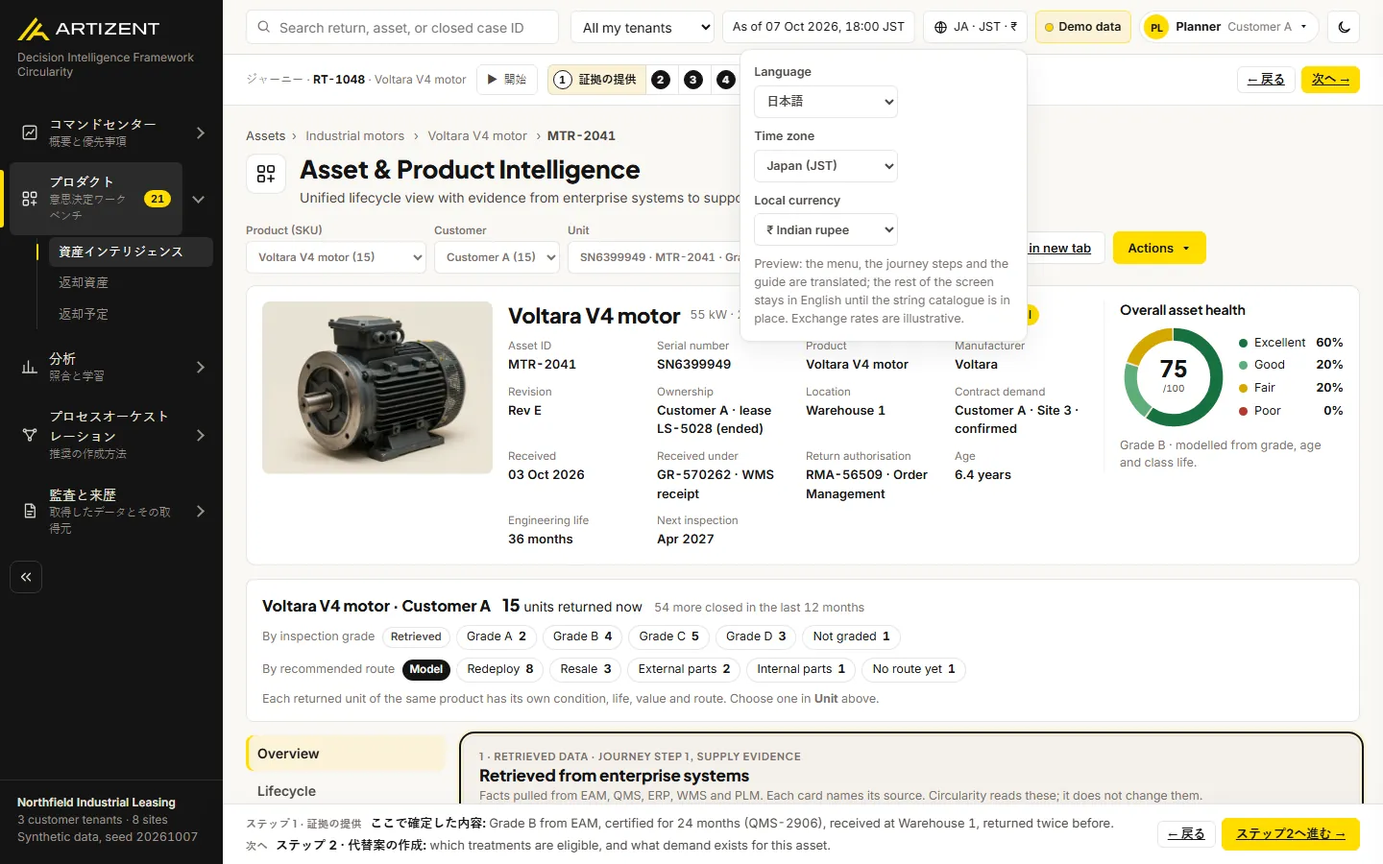
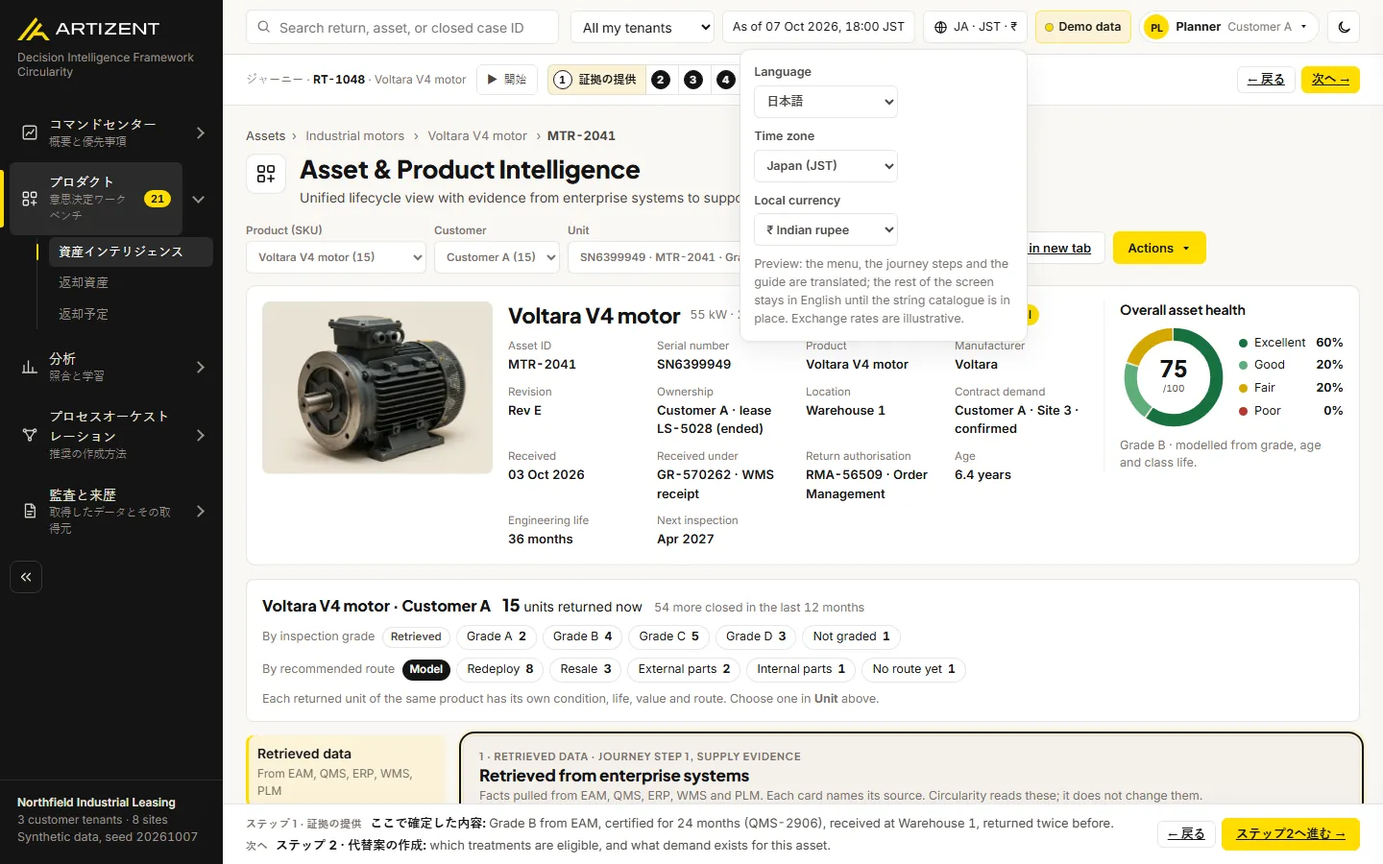
Asset Intelligence: Retrieved data and Predictions as two separate pages
Product Owner feedback (19 Oct): the left menu on Asset Intelligence
should hold only Retrieved data and Predictions, each its own page,
not one scroll with both.

- Left menu: two entries (AS_PAGES), linked to ?zone=known (journey
  step 1) and ?zone=predicted (steps 2-3). Each page renders only its
  own section (asOverview, asPageOf).
- Detail views (Lifecycle, Condition, Product & Components, Economic
  Analysis, Eligibility & Compliance, Data & Evidence, Related Assets)
  open from each card's View details under their page (AS_PARENT),
  with a crumb back. View details now also works on ?zone= links,
  which previously reset the tab on re-render.
- Compare similar assets moved to the Actions menu.
- The step-1 "Not evaluated yet" collapse is removed: predictions are
  on their own page.
- CHANGES Update 11, README, plan (J4 answered) and demo script updated;
  asset screenshots retaken.

Tests: role 208, guided flow 110, demo 91, iteration two 50,
iteration three 55, 390 px 27; no console errors.

Changed region(s): [[0.1562, 0.8711, 0.3438, 0.9333]]

diff --git a/index.html b/index.html
@@ -89,6 +89,7 @@ tr.dpfocus>td{background:var(--yellow-soft)}
 .asbody2{display:grid;grid-template-columns:208px minmax(0,1fr);gap:18px;align-items:start}
 .asside{position:sticky;top:72px;display:grid;gap:8px;align-content:start}
 .asside .asvt{display:grid;gap:2px;border:0;margin:0;overflow:visible}
+.asside .asvt button{display:grid;gap:2px}.asside .asvt button .note{font-weight:400;font-size:12px}.ascr2{margin:0 0 12px}
 .asside .asvt button,.asvc{text-align:left;border:0;border-radius:8px;padding:8px 12px;background:none;font-weight:600;color:var(--ink2);white-space:normal;border-bottom:0}
 .asside .asvt button[aria-selected=true]{background:var(--yellow-soft);color:var(--ink);box-shadow:inset 3px 0 0 var(--yellow)}
 .asside .asvt button:hover,.asvc:hover{background:var(--panel2);color:var(--ink)}
@@ -2881,13 +2882,17 @@ function assetHead(c,h){
   return `<nav class="crumbs ascr" aria-label="Breadcrumb"><a href="#/product/received" data-act="go" data-arg="product/received">Assets</a> <span>›</span> <span>${esc(CLASSES[c.cls].plural)}</span> <span>›</span> <span>${esc(asModel(c))}</span> <span>›</span> <b>${c.assetId}</b></nav>
   <div class="phead asph2"><div class="row" style="gap:14px;flex-wrap:nowrap;align-items:flex-start"><span class="asico">${ICON.product}</span><div><h1>Asset &amp; Product Intelligence</h1><p>Unified lifecycle view with evidence from enterprise systems to support circularity decisions.</p></div></div>
    <div class="row asact">${assetSelect(c)}<a class="btn" href="${link}" target="_blank" rel="noopener">Open in new tab</a>
-    <details class="asmenu"><summary class="btn pri">Actions <span aria-hidden="true">▾</span></summary><div class="asmenu-list" role="menu"><button role="menuitem" data-act="go" data-arg="product/${c.id}">Open decision analysis</button><button role="menuitem" data-act="snapshot" data-arg="${c.id}">Evidence snapshot</button><button role="menuitem" data-act="asCopy">Copy link</button><button role="menuitem" data-act="asPrint">Print or save as PDF</button></div></details></div></div>
+    <details class="asmenu"><summary class="btn pri">Actions <span aria-hidden="true">▾</span></summary><div class="asmenu-list" role="menu"><button role="menuitem" data-act="go" data-arg="product/${c.id}">Open decision analysis</button><button role="menuitem" data-act="snapshot" data-arg="${c.id}">Evidence snapshot</button><button role="menuitem" data-act="asCopy">Copy link</button><button role="menuitem" data-act="asCompare">Compare similar assets</button><button role="menuitem" data-act="asPrint">Print or save as PDF</button></div></details></div></div>
   <section class="aship"><div class="asphoto">${asPhoto(c)}</div>
    <div class="asmain"><div class="asttl"><h2>${esc(asTitle(c))}</h2><span class="note">${esc(Object.values(c.spec||{}).slice(0,3).join(' · '))}</span><span class="chip line">${esc(CLASSES[c.cls].label)}</span>${stageChip(c)}</div>
     <dl class="asfacts">${assetFacts(c).map(f=>`<div><dt>${f[0]}</dt><dd>${esc(f[1])}</dd></div>`).join('')}</dl></div>
    <div class="ashealth"><h3>Overall asset health</h3>${asRing(h)}<div class="note" style="margin-top:6px">${h.est?'Estimated: no inspection grade yet.':'Grade '+c.grade+' · modelled from grade, age and class life.'}</div></div></section>`}
-function assetTabs(c){const rel=assetRelated(c);return `<nav class="asside" aria-label="Asset sections"><div class="tabs asvt" role="tablist" aria-label="Asset sections" aria-orientation="vertical">${AS_TABS.filter(t=>asTabOK(t[0])).map(t=>`<button role="tab" aria-selected="${S.at.tab===t[0]}" data-act="asTab" data-arg="${t[0]}">${t[1]}${t[0]==='related'?' ('+rel.length+')':''}</button>`).join('')}</div>
-   <button class="asvc" data-act="asCompare">Compare similar assets</button><a class="btn pri asev" href="#/product/${c.id}" data-act="go" data-arg="product/${c.id}">Evaluate treatments →</a></nav>`}
+/* the asset page has two pages: what the enterprise systems supplied, and what Circularity predicts; detail views sit under one of them */
+const AS_PAGES=[['known','Retrieved data','From EAM, QMS, ERP, WMS, PLM'],['pred','Predictions','Computed by Circularity']];
+const AS_PARENT={known:'known',pred:'pred',overview:'known',lifecycle:'known',condition:'known',product:'known',data:'known',related:'known',economic:'pred',eligibility:'pred'};
+const asPageOf=()=>AS_PARENT[S.at.tab]||'known';
+function assetTabs(c){const cur=asPageOf();return `<nav class="asside" aria-label="Asset pages"><div class="tabs asvt" role="tablist" aria-label="Asset pages" aria-orientation="vertical">${AS_PAGES.map(p=>`<button role="tab" aria-selected="${cur===p[0]}" data-act="asZone" data-arg="${p[0]}" id="asp-${p[0]}"><span class="aspt">${p[1]}</span><span class="note">${p[2]}</span></button>`).join('')}</div></nav>`}
+ACT.asZone=z=>{const c=CASE_BY_ID[S.lastAsset];if(!c)return;S.at.tab=z==='pred'?'pred':'known';go('product/asset/'+c.id+'?zone='+(z==='pred'?'predicted':'known'))};
 function assetRelated(c){return myCases().filter(x=>x.id!==c.id&&x.cls===c.cls).sort((a,b)=>(b.owner===c.owner)-(a.owner===c.owner)||(a.location===c.location?-1:1)-(b.location===c.location?-1:1)||(a.id<b.id?-1:1)).slice(0,3)}
 
 /* ---- shared panel + timeline + condition ---- */
@@ -3020,9 +3025,6 @@ function asDemand(c){const d=c.demand||{},M=caseDemand(c),R=caseRul(c),rows=[],r
   if(d.lease)rows.push(row('Re-lease opportunity',d.lease,'Forecast','warn','Opportunity in CRM and lease management, where a contract is likely to be extended'));
   if(d.parts)rows.push(row('Internal parts demand','Open requests','Forecast','warn','Parts requests from repair work orders'));
   return rows.length?rows.join('')+'<p class="note" style="margin:6px 0 0">Matched by Circularity from orders, contracts and opportunities in ERP and CRM. The routes that use this demand are priced in step 3.</p>':'<div class="empty"><b>No contract demand matched</b>Only external market routes apply.</div>'}
-/* entered from step 1: the predicted side waits (collapsed, not hidden) */
-const asCollapsed=(c,Rt)=>`<div class="aszcol" id="aszCol"><b>Not evaluated yet</b><p class="note">Steps 2–4 add eligible treatments, life and value. This side fills in as the journey moves on.</p><div class="row"><a class="btn pri sm" href="#/${JG[2].h(c.id)}">Continue to step 2 →</a><button class="btn sm" data-act="asShowPred">Show the predictions now</button></div></div><div id="aszRest" hidden>${Rt.join('')}</div>`;
-ACT.asShowPred=()=>{const a=$('#aszCol'),b=$('#aszRest');a&&a.remove();b&&(b.hidden=false)};
 function asPredRoutes(c){const rs=(c.routes||[]).filter(r=>!r.excluded).sort((a,b)=>b.net-a.net).slice(0,4),rec=c.chosen||c.recommendation;if(!rs.length)return '';
   return `<h4 style="font-size:12.5px;margin:14px 0 4px;color:var(--ink2)">Predicted value by route</h4>`+asTbl([['Route'],['Net','r'],['P10 to P90','r']],rs.map(r=>`<tr class="${rec&&r===rec?'sel':''}"><td>${esc(r.plan||rid(r.id).name)}</td><td class="r num"><b>${asMoney(r.net)}</b></td><td class="r num">${asMoney(r.p10)} to ${asMoney(r.p90)}</td></tr>`))}
 function asOverview(c,h){const ok=asTabOK,z=hq('zone'),ws=c.cls==='motor'||c.cls==='pump'?'EAM':'Inspection';
@@ -3039,8 +3041,8 @@ function asOverview(c,h){const ok=asTabOK,z=hq('zone'),ws=c.cls==='motor'||c.cls
    asPanel('Estimated remaining useful life',asPredRul(c,h),null,'',provB('mod','RUL model '+(c.model||'')),'asRulCard'),
    ok('data')&&asPanel('Data and evidence quality',asQuality(c),'data','',provB('rul','Evidence scoring')),
    ok('economic')&&asPanel('Economic intelligence',asEcon(c)+asCostBuild(c,h)+asPredRoutes(c),'economic','aszw',provB('mod','Prediction model'),'asEconCard')].filter(Boolean);
-  return `<div class="aszs"><div class="asz known ${z==='known'?'on':''}" id="aszKnown" aria-labelledby="aszKh"><header class="aszh"><span class="aszk">1 · Retrieved data · journey step 1, supply evidence</span><h2 id="aszKh">Retrieved from enterprise systems</h2><p class="note">Facts pulled from EAM, QMS, ERP, WMS and PLM. Each card names its source. Circularity reads these; it does not change them.</p></header>${L.join('')}</div>
-   <div class="asz pred ${z==='predicted'?'on':''}" id="aszPred" aria-labelledby="aszPh"><header class="aszh"><span class="aszk">2 · Predictions · journey steps 2–3, build alternatives and predict outcomes</span><h2 id="aszPh">Predicted and computed by Circularity</h2><p class="note">Model estimates and rule results, each labelled with what produced it. Recommended routes and values appear only on this side.</p></header>${hq('jstep')==='1'?asCollapsed(c,Rt):Rt.join('')}</div></div>`}
+  const pg=asPageOf();
+  return `<div class="aszs">${pg==='known'?`<div class="asz known ${z==='known'?'on':''}" id="aszKnown" aria-labelledby="aszKh"><header class="aszh"><span class="aszk">1 · Retrieved data · journey step 1, supply evidence</span><h2 id="aszKh">Retrieved from enterprise systems</h2><p class="note">Facts pulled from EAM, QMS, ERP, WMS and PLM. Each card names its source. Circularity reads these; it does not change them.</p></header>${L.join('')}</div>`:`<div class="asz pred ${z==='predicted'?'on':''}" id="aszPred" aria-labelledby="aszPh"><header class="aszh"><span class="aszk">2 · Predictions · journey steps 2–3, build alternatives and predict outcomes</span><h2 id="aszPh">Predicted and computed by Circularity</h2><p class="note">Model estimates and rule results, each labelled with what produced it. Recommended routes and values appear only on this page.</p></header>${Rt.join('')}</div>`}</div>`}
 /* ---- focused tab views + compare ---- */
 const asTbl=(head,rows,cls)=>`<div class="tw"><table class="t static tight ${cls||''}"><thead><tr>${head.map(h=>`<th class="${h[1]||''}">${h[0]}</th>`).join('')}</tr></thead><tbody>${rows.join('')||`<tr><td colspan="${head.length}"><div class="empty"><b>Nothing to show</b></div></td></tr>`}</tbody></table></div>`;
 function asNet(x){return x.recommendation?x.recommendation.net:null}
@@ -3070,7 +3072,8 @@ function asTabData(c){const ev=c.evidence||[],stl={ready:['Complete','ok'],parti
 function asTabRelated(c){const all=myCases().filter(x=>x.id!==c.id&&x.cls===c.cls).sort((a,b)=>(b.owner===c.owner)-(a.owner===c.owner)||(a.id<b.id?-1:1)).slice(0,14);
   const rows=all.map(x=>{const hh=assetHealth(x),n=asNet(x);return `<tr><td><div class="row" style="gap:10px;flex-wrap:nowrap">${asPhoto(x,'xs')}<span><b>${asSerial(x)}</b><div class="note">${x.id} · ${x.assetId}</div></span></div></td><td>${x.owner}</td><td>${esc(x.location)}</td><td>${x.grade?'Grade '+x.grade:'—'}</td><td class="r num">${hh.score}</td><td class="r num">${n==null?'—':money(n)}</td><td>${stageChip(x)}</td><td class="nowrap"><span class="tacts" style="display:inline-flex"><button class="tbtn" data-act="go" data-arg="product/asset/${x.id}">Open</button><button class="tbtn" data-act="asCompare" data-arg="${x.id}">Compare</button></span></td></tr>`});
   return asPanel('Related assets and fleet context',asTbl([['Asset'],['Owner'],['Site'],['Grade'],['Health','r'],['Net','r'],['Status'],['']],rows)+`<div class="note" style="margin-top:6px">Showing the ${all.length} closest of ${myCases().filter(x=>x.id!==c.id&&x.cls===c.cls).length} ${esc(CLASSES[c.cls].plural.toLowerCase())}: same customer first, then by return number.</div>`)}
-function assetTabBody(c,h){const t=S.at.tab;return ({overview:asOverview,lifecycle:asTabLifecycle,condition:asTabCondition,product:asTabProduct,economic:asTabEconomic,eligibility:asTabEligibility,data:asTabData,related:asTabRelated}[t]||asOverview)(c,h)}
+function assetTabBody(c,h){const t=S.at.tab;if(t==='known'||t==='pred'||t==='overview')return asOverview(c,h);const back=AS_PAGES.find(p=>p[0]===asPageOf()),lab=(AS_TABS.find(x=>x[0]===t)||[t,t])[1];
+  return `<nav class="crumbs ascr2" aria-label="Asset page"><button class="lnk" data-act="asZone" data-arg="${back[0]}">${back[1]}</button> <span>›</span> <b>${esc(lab)}</b></nav>`+({overview:asOverview,lifecycle:asTabLifecycle,condition:asTabCondition,product:asTabProduct,economic:asTabEconomic,eligibility:asTabEligibility,data:asTabData,related:asTabRelated}[t]||asOverview)(c,h)}
 ACT.asCompare=id=>{const c=CASE_BY_ID[S.lastAsset];if(!c)return;const rel=assetRelated(c).filter(x=>x.id!==id),pick=[CASE_BY_ID[id]].filter(Boolean).concat(rel).slice(0,3),cols=[c].concat(pick);
   const val=(x,k)=>{const hh=assetHealth(x),ev=x.evidence||[],q=Math.round((ev.filter(e=>e.state==='ready').length+.5*ev.filter(e=>e.state==='partial'||e.state==='stale').length)/Math.max(1,ev.length)*100);
    return ({id:x.id+' · '+x.assetId,owner:x.owner,site:x.location,age:x.age+' years',grade:x.grade?'Grade '+x.grade:'Not graded',health:hh.score+' / 100',life:x.engLife,route:x.recommendation?(x.recommendation.plan||rid(x.recommendation.id).short):'None yet',net:x.recommendation?money(x.recommendation.net):'—',q:q+' / 100'})[k]};
@@ -3078,7 +3081,7 @@ ACT.asCompare=id=>{const c=CASE_BY_ID[S.lastAsset];if(!c)return;const rel=assetR
   openModal('Compare similar assets',`<div class="tw"><table class="t static tight ascmp"><thead><tr><th></th>${cols.map((x,i)=>`<th>${asPhoto(x,'xs')}<div>${asSerial(x)}${i===0?' <span class="chip y">This asset</span>':''}</div></th>`).join('')}</tr></thead><tbody>${rows.map(r=>`<tr><td class="note">${r[1]}</td>${cols.map(x=>`<td>${esc(val(x,r[0]))}</td>`).join('')}</tr>`).join('')}</tbody></table></div>`,`<button class="btn ghost" data-act="closeModal">Close</button>`,true)};
 function assetPage(r){const c=CASE_BY_ID[r.b||rbLastAsset()];
   if(!c)return `<div class="empty"><b>Asset not found</b>Choose a returned asset from <a href="#/product/received">Returned assets</a>.</div>`;
-  S.lastAsset=c.id;if(!asTabOK(S.at.tab)||hq('zone'))S.at.tab='overview';const h=assetHealth(c);
+  S.lastAsset=c.id;if(location.hash!==S.at.hash){S.at.hash=location.hash;S.at.tab=hq('zone')==='predicted'?'pred':'known'}if(!AS_PARENT[S.at.tab]||(!['known','pred','overview'].includes(S.at.tab)&&!asTabOK(S.at.tab)))S.at.tab='known';const h=assetHealth(c);
   return `<div class="as">${assetHead(c,h)}${skuStrip(c)}<div class="asbody2">${assetTabs(c)}<div id="asBody">${assetTabBody(c,h)}</div></div></div>`}
 ACT.asTab=t=>{if(!asTabOK(t)){toast('That tab is not part of the '+S.acct.role+' view.');return}S.at.tab=t;route(true)};
 ACT.asSwitch=v=>{go('product/asset/'+v)};

diff --git a/CHANGES.md b/CHANGES.md
@@ -22,7 +22,7 @@ Open `index.html`. The app opens on a **sign-in form** (Update 9): type `exec` o
 | **Command Center by section** (U2, T8, J2) | Sidebar → Command Center | Each sidebar entry opens its own page: Key figures, Exceptions, Actions on me, Handed off, Approvals inbox, Outcomes to confirm, Portfolio charts, Actions to prioritise, Signals and capacity, Value realisation, Integration health. A role sees only the sections its view has (the Executive: Key figures, Exceptions, Portfolio charts, Value realisation). `#/command` opens **Key figures**, with **What these figures mean**: a plain definition for each figure (*Value at risk* = predicted recovery value lost in the next 30 days if nobody acts, by reason). Each page says in one line what it shows. Tiles that used to scroll now open their section; filtering tiles open *Actions to prioritise* |
 | **Pool optimizer hidden** (U3) | Everywhere in the UI | No sidebar entry, no `#/product/pools` route, no *Portfolio Optimization Mode* switch, no pool block in the full analysis, no *Pool efficiency* in Analytics; Process orchestration says *Optimise plan*. The code and data stay; one flag brings it back (`FEAT.pools`). The MCP tool catalogue still lists `optimize_pool` (hiding it would break the seeded agent call log) |
 | **Product menu** (U4, J3) | Sidebar → Product | **Asset intelligence** first, then Returned assets and Expected returns. The *Product* heading still opens Returned assets, where the journey starts (assumed, J3) |
-| **Asset Intelligence layout** (U5, J4) | Asset Intelligence | The tab list is now a **section menu on the left**: Overview, Lifecycle, Condition, Product & Components, Economic Analysis, Eligibility & Compliance, Data & Evidence, Related Assets, Compare similar assets, then *Evaluate treatments*. The Overview shows **1 · Retrieved data** first, full width, then **2 · Predictions** below it, as a separate section (no more left and right). On a phone the menu becomes a scrolling row |
+| **Asset Intelligence layout** (U5, J4) | Asset Intelligence | The left menu holds only two pages: **Retrieved data** (`?zone=known`, journey step 1) and **Predictions** (`?zone=predicted`, steps 2–3). Each is its own page; they never share a scroll. The detail views (Lifecycle, Condition, Product & Components, Economic Analysis, Eligibility & Compliance, Data & Evidence, Related Assets) open from each card's *View details* under their page, with a link back (*Predictions › Economic Analysis*). *Compare similar assets* moved to the **Actions** menu. On a phone the menu becomes a row |
 | **Cost inputs** (T3, J9) | Asset Intelligence, retrieved section; Economic intelligence | *How do you get the cost?* A **Cost inputs** card: catalogue value (PLM / ERP), **return authorisation RMA-…** (Order Management) and the WMS receipt, the repair scope (EAM diagnostics), and **contracted part prices** (procurement, supplier contract SC-…). On the predicted side, **How the preparation cost is built**: contracted parts + labour and transfer (prep-cost-time) = the preparation line (RT-1048: $1,000 + $800 = $1,800). The header adds *Return authorisation* |
 | **Certification** (T5) | Certified period, Matched demand | *Certified in QMS by the EAM diagnostic and quality process after inspection and any part replacement*, and *Circularity reads this certificate; it does not certify equipment*. Matched demand compares the life the contract needs with the certified life (*24 months needed · 24 certified · Covered*) |
 | **Redeploy to the customer** (T2, J5) | RT-1048 everywhere | Redeploy goes **to Customer A (Site 3)** against **contract replacement order SO-48102**, which **accepts a certified refurbished unit**; orders that need a new unit are never matched. Decision card *Redeploy RT-1048 to Customer A (Site 3)*; instruction preview, step 2, the guide and the header (*Contract demand*) use the same words. Route names and values do not change |
@@ -35,7 +35,7 @@ Open `index.html`. The app opens on a **sign-in form** (Update 9): type `exec` o
 ### Changed behaviour (and changed test expectations)
 
 - `#/command` no longer shows every section. The role, guided-flow and demo suites now open the section they check (`#/command/exceptions`, `/aome`, `/approvals`, `/outcomes`); the role suite checks every section page for each role. Finance and Admin have four key figures (uplift hidden).
-- Asset tab selectors moved from `.astabbar` to `.asside`. The role suite turns `FEAT.pools` on, so the hidden pool code stays covered.
+- Asset Intelligence has two pages instead of one Overview: suites open `?zone=known` or `?zone=predicted` for what they check, and the step-1 collapse (iteration two) is replaced by the separate Predictions page. Asset tab selectors moved from `.astabbar` to `.asside`. The role suite turns `FEAT.pools` on, so the hidden pool code stays covered.
 - Wording checks for RT-1048's demand (*Customer A, Site 3*, *contract demand*) were updated in the iteration-two suite.
 
 ### Screenshots
@@ -52,7 +52,7 @@ Open `index.html`. The app opens on a **sign-in form** (Update 9): type `exec` o
 
 1. Sign in with `exec`. The Command Center opens on **Key figures**; open *What these figures mean*. Click **Exceptions** in the sidebar: only that section is on the page. No *Uplift* anywhere.
 2. Sign out, sign in with `ops`. **Returned assets**: each status has its signals. The Product menu starts with **Asset intelligence**; there is no Pool optimizer.
-3. Open RT-1048 in Asset Intelligence: the section menu on the left, **Retrieved data** first with **Cost inputs**, then **Predictions**. Read the Matched demand card: contract, refurbished accepted, 24 months needed and certified.
+3. Open RT-1048 in Asset Intelligence: the left menu has **Retrieved data** (with **Cost inputs**) and **Predictions**, each its own page. Read the Matched demand card: contract, refurbished accepted, 24 months needed and certified.
 4. Treatment Intelligence, step 4: press **Critical part unavailable**, then **Customer requires a new unit**.
 5. Globe menu: Japanese, Japan time, yen. Back to English · UTC · ₹.
 

diff --git a/README.md b/README.md
@@ -237,9 +237,9 @@ The left menu has eight areas. Each area has a dropdown of its sections, and eve
 **For:** Planner, Approver, Engineer and Finance, each with their own tabs. **Purpose:** everything known about one asset, on one page.
 
 - Product photo, key facts (including **Received under GR-…**, the WMS receipt, the **return authorisation RMA-…** from Order Management, the contract demand and the lease the unit came back from) and an **overall health score**.
-- **Section menu on the left** (Update 11): Overview, Lifecycle, Condition, Product & Components, Economic Analysis, Eligibility & Compliance, Data & Evidence, Related Assets, Compare similar assets, then *Evaluate treatments*. It is first in the Product menu.
+- **Two pages in the left menu** (Update 11): **Retrieved data** and **Predictions**, each its own page. Detail views (Lifecycle, Condition, Product & Components, Economic Analysis, Eligibility & Compliance, Data & Evidence, Related Assets) open from each card's *View details*; *Compare similar assets* is in the **Actions** menu. Asset intelligence is first in the Product menu.
 - **Product (SKU) → Customer → Unit** selectors. One customer can return many units of the same product (Customer A has 15 Voltara V4 motors back now); each unit has its own serial number, grade, life, value and route. A strip above the tabs counts the units by inspection grade and by recommended route; click a count to filter the *Unit* list.
-- **Overview: retrieved data first, then predictions**, each a full-width section. **Retrieved from enterprise systems**: diagnostic condition (EAM), certified period (QMS, certified by the EAM and quality process; Circularity reads the certificate), **Cost inputs** (catalogue value, RMA, EAM repair scope, contracted part prices), inspection findings, lifecycle evidence timeline, the **return history of this unit**, **Product specs** and related assets. Then **Predicted and computed by Circularity**, in journey order: **Commercial value**, eligibility gates and **Matched demand** (step 2: for RT-1048, order SO-48102 at Site 3 and re-lease opportunity LS-5530), estimated remaining useful life and economic intelligence with predicted value by route and **how the preparation cost is built** (step 3), and data quality. Matched demand names the customer contract, says it accepts a certified refurbished unit, and compares the life it needs with the certified life. Every card carries a badge: **Retrieved · system**, **Model · name** or **Rules · name**. No route or predicted value appears on the retrieved side.
+- **Retrieved data** page (journey step 1), **Retrieved from enterprise systems**: diagnostic condition (EAM), certified period (QMS, certified by the EAM and quality process; Circularity reads the certificate), **Cost inputs** (catalogue value, RMA, EAM repair scope, contracted part prices), inspection findings, lifecycle evidence timeline, the **return history of this unit**, **Product specs** and related assets. **Predictions** page (journey steps 2–3), **Predicted and computed by Circularity**, in journey order: **Commercial value**, eligibility gates and **Matched demand** (step 2: for RT-1048, order SO-48102 at Site 3 and re-lease opportunity LS-5530), estimated remaining useful life and economic intelligence with predicted value by route and **how the preparation cost is built** (step 3), and data quality. Matched demand names the customer contract, says it accepts a certified refurbished unit, and compares the life it needs with the certified life. Every card carries a badge: **Retrieved · system**, **Model · name** or **Rules · name**. No route or predicted value appears on the retrieved side.
 - **Commercial value builds with the journey.** Its chip reads **Pending evaluation** (nothing recommended yet), **Predicted, not committed** (awaiting approval), **Committed** against the order the enterprise system returned (for example *Sales order SO-48102*), and finally **Predicted vs actual** with the variance and a link to step 10. Opened from **step 1** of the journey, the predicted side waits (*Not evaluated yet*, with *Continue to step 2* and *Show the predictions now*).
 
 [![Asset Overview: retrieved on the left, predicted on the right](docs/screenshots/demo-asset-zones.webp)](docs/screenshots/demo-asset-zones.webp)

diff --git a/docs/feature-demo-refactor-iter-three.md b/docs/feature-demo-refactor-iter-three.md
@@ -86,7 +86,7 @@ If there is no answer, build the default and mark it **(assumed)**.
 | J1 | Hide *Uplift vs baseline*, or rename it? | **Hide** on the Command Center (flag `FEAT.uplift`), and the *Uplift vs sell as-is or scrap* line on Asset Intelligence. Plain alternatives to choose from: **Extra value recovered** (*$652k more than selling as-is or scrapping*), **Value recovered** (actual net, already shown as *Net recovery*), **New purchases avoided** (already shown as *Avoided spend*). Analytics keeps its waterfall unchanged |
 | J2 | What does `#/command` open? | The **overview** (key figures, with definitions). Each other entry opens its own page; sections a role does not have are not listed |
 | J3 | Keep *Returned assets* in the Product menu? | **Yes.** It is where the journey starts. Only Pool optimizer is hidden; Asset intelligence moves to the top. The *Product* heading still opens Returned assets |
-| J4 | Asset Intelligence layout | The tab list becomes a **left section menu**; Overview stacks **Retrieved** above **Predicted**, each full width, cards two across. Phone: the menu becomes a scrollable row |
+| J4 | Asset Intelligence layout | **Answered 19 Oct:** the left menu holds only **Retrieved data** and **Predictions**, each a separate page (not one scroll). Detail views open from *View details* under their page; *Compare similar assets* moves to Actions. Phone: the menu becomes a row |
 | J5 | Redeploy wording | *Redeploy RT-1048 to Customer A (Site 3)* against **contract replacement order SO-48102**, which **accepts a certified refurbished unit** for **24 months**; a new-only demand line is never matched |
 | J6 | Critical part unavailable preset | Withholds redeploy, re-lease and whole-unit sale (*critical component failed; no replacement in supplier contracts, so EAM/QMS cannot re-certify its life*); RT-1048's top route becomes *Recover parts* |
 | J7 | Languages | English plus a **navigation preview** in Japanese, German, French and Finnish (menu, journey step names, guide labels), marked *preview, not reviewed by a native speaker*. Full translation needs a string catalogue (backend phase) |
@@ -189,7 +189,7 @@ Run the five existing suites; change expectations only where this plan changes b
 | J1 | Pending (assumed: hide) | `FEAT.uplift=false`: `ccKeys` drops the tile; the Finance subtitle and the asset value card follow the flag |
 | J2 | Pending (assumed: overview) | `renderCommand(r)`, `ccSec`, `ccSecOK`, `CC_DESC`, `ccDefsHTML`; `navKids` lists only the role's sections |
 | J3 | Pending (assumed: keep Returned assets) | `NAV` Product order; the heading still links to Returned assets |
-| J4 | Pending (assumed: left menu, stacked) | `assetTabs` (`.asside`), `.asbody2`, `.aszs`/`.asz` grid, `aszw` wide cards |
+| J4 | **Answered:** two separate pages, Retrieved data and Predictions | `AS_PAGES`, `AS_PARENT`, `asPageOf`, `assetTabs`, `ACT.asZone`, `asOverview` (one zone per page), `assetTabBody` (detail crumb); `?zone=known` / `?zone=predicted` |
 | J5 | Pending (assumed: customer contract wording) | RT-1048 seed (`demandLabel`, `target`, `why`, `facts`), `bestCard`, `tiPredicted`, `tiOutcome`, `tiHandoff`, `jgEst`, `asDemand`, `assetFacts` |
 | J6 | Pending (assumed: withhold redeploy, re-lease, whole sale) | `SCEN_WHY`, `scenRoutes`, `TI_PRESETS` (`ecm`, `newonly`) |
 | J7 | Pending (assumed: navigation preview) | `I18N_KEYS`, `I18N`, `tr`, `RG_CONT` |

diff --git a/docs/demo/DEMO_SCRIPT.md b/docs/demo/DEMO_SCRIPT.md
@@ -53,7 +53,7 @@ Show **User Flow** ([`user-flow.png`](user-flow.png)): the planner signs in, ope
 
 ### Step 1 · Supply evidence
 
-3. Asset Intelligence opens. The section menu is on the left; **Retrieved from enterprise systems** comes first; **Predictions** sit below it and wait (*Not evaluated yet*).
+3. Asset Intelligence opens on **Retrieved data**. The left menu has two pages: **Retrieved data** and **Predictions**; nothing predicted is on this page.
 
    > "Step one is what the enterprise systems tell us. Grade B from the EAM diagnostics. Certified for 24 months in QMS: the diagnostic and quality process certifies the motor, after any part is replaced; Circularity reads that certificate, it does not certify anything. And the cost inputs."
 
@@ -63,7 +63,7 @@ Show **User Flow** ([`user-flow.png`](user-flow.png)): the planner signs in, ope
 
 ### Steps 2 and 3 · Build alternatives, predict outcomes
 
-4. **Continue to step 2**: *Eligibility and gates* and *Matched demand* are outlined.
+4. **Continue to step 2**: the **Predictions** page opens, with *Eligibility and gates* and *Matched demand* outlined.
 
    > "Six of seven routes are eligible. And there is demand: Customer A's contract needs a replacement at Site 3, order SO-48102. The contract accepts a certified refurbished motor; if it asked for a new one, we could not use this unit. It needs 24 months of certified life, and this motor has 24."
 
